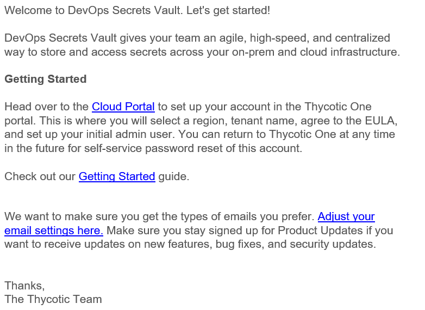
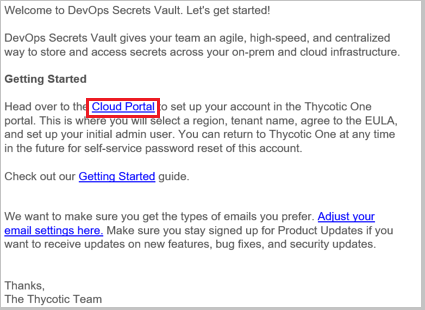
image cleanup and tenant steps to OL

Changed region(s): [[0.0, 0.0, 1.0, 1.0], [0.1835, 0.2903, 0.3976, 0.4065]]

diff --git a/product/QuickStart/obtaindsv/index.md b/product/QuickStart/obtaindsv/index.md
@@ -5,49 +5,44 @@
 # Sign Up with Thycotic for a Tenant
 
 Your **tenant** is your DevOps Secrets Vault cloud account and the rights to access it.
+To get your **tenant**:
 
-* To sign up, visit Thycotic's [DevOps Secrets Vault Home Page](https://thycotic.com/products/devops-secrets-vault-password-management/) and fill out and submit the **DevOps Secrets Vault Free** web form.
-* Signing up qualifies you for a free, feature-complete try-out version of DevOps Secrets Vault. You begin with the free version to get configured, and upgrade when you need more capacity than the free version's 250 Secrets and 2500 API calls per month.
-* An initial email from Thycotic Customer Support will arrive with the subject, "Welcome to the Thycotic Community!". There is a link to sign up for a Thycotic support account.  You can wait until you need support to sign up.  Also, if you already have a support account because of a previous Thycotic cloud subscription, then this can be ignored.
-* A second email, this time from Thycotic Sales, with the subject "DevOps Secrets Vault" will arrive.  
-* Click the hyperlink labeled "Cloud Portal" in the text of the email to click to get started.
+1. Visit Thycotic's [DevOps Secrets Vault Home Page](https://thycotic.com/products/devops-secrets-vault-password-management/).
+1. Fill out  the **DevOps Secrets Vault Free** web form and submit.
+    * Signing up qualifies you for a free, feature-complete trial version of DevOps Secrets Vault. The trial version is limited to **250 Secrets** and **2500 API calls** per month. Start by configuring the free version and upgrade when you need more capacity.
+1. After submitting the form, you receive an e-mail from Thycotic Customer Support with the subject, **"Welcome to the Thycotic Community!"**.
+    * There is a link to sign up for a Thycotic support account. You can wait until you need support to sign up. If you already have a support account because of a previous Thycotic cloud subscription, use your existing account for support.
+1. A second email, this time from Thycotic Sales, arrives with the subject **"DevOps Secrets Vault"**. 
+    ![DSV Get Started Email](./images/DSVCloudemail.png)
+    
+1. Click the hyperlink labeled **"Cloud Portal"** in the text of the email to click to get started.
+1. The link takes you to **Thycotic Cloud Manager** to select your **Product Environment**.  The three regions are independent for data sovereignty reasons (like GDPR). All three provide geographical redundancy. Select a product environment from the dropdown.
+    | Option   | Primary Region       | (Active standby)  | Base URL                |
+    | -------- | ---------------------| ------------------|---------------          |
+    |AU        | Sydney               | Singapore         | secretsvaultcloud.com.au    |
+    |EU        | Frankfurt            | Ireland           | secretsvaultcloud.eu    |
+    |US        | US-East              | US-West           | secretsvaultcloud.com   |
+    <br>
 
-![DSV Get Started Email](./images/DSVCloudemail.png)
+    ![Select Region](./images/DSVEnvironment.png)
 
-* You will visit Thycotic Cloud Manager to select your region.  The three regions are independent for data sovereignty reasons (like GDPR).  All three provide geographical redundancy.
+1. Next you are taken to **Thycotic One** to set a password.  
 
-| Option   | Primary Region       | (Active standby)  | Base URL                |
-| -------- | ---------------------| ------------------|---------------          |
-|AU        | Sydney               | Singapore         | secretsvaultcloud.com.au    |
-|EU        | Frankfurt            | Ireland           | secretsvaultcloud.eu    |
-|US        | US-East              | US-West           | secretsvaultcloud.com   |
+    ![Create Password](./images/DSVPassword.png)
 
-![](./images/spacer.png)
+    > **NOTE**: The person setting up the DevOps Secrets Vault tenant will be considered the *initial administrator* and Thycotic One will be established as that person's authentication provider.  This is to enable Thycotic to help in case the password is lost.  
 
-![Select Region](./images/DSVEnvironment.png)
+    * You can set future users as local or use Thycotic One, AWS, Azure or GCP.
+    * Thycotic One can be setup later to enable SSO to an identity provider of your choice using OIDC.
+    * Thycotic One can be setup later to enable 2FA when used as the identity provider. The options are TOTP (such as Google Authenticator) and SMS.
+1. Choose your tenant name.
 
-* Next you are taken to Thycotic One to set a password.  
+    ![Select Tenant](./images/DSVsettenant.png)
 
-* NOTE: The person setting up the DevOps Secrets Vault tenant will be considered the *initial administrator* and Thycotic One will be established as that person's authentication provider.  This is to enable Thycotic to help in case the password is lost.  
+1. Read and agree to the EULA and GDPR (if applicable)
 
-    * It is up to the customer to set any future users as local or through Thycotic One, AWS, Azure or GCP.
-    * Thycotic One can be setup later to enable SSO to an identity provider of the customer's choice using OIDC.
-    * Thycotic One can be setup later to enable 2FA when used as the identity provider. The options are TOTP (such as Google Authenticator) and SMS. 
+    ![EULA](./images/DSVLicense.png)
 
-![Create Password](./images/DSVPassword.png)
+1. The tenant will be created. DSV takes between 5-20 minutes to complete tenant creation.
 
-* Choose your tenant name.
-
-![Select Tenant](./images/DSVsettenant.png)
-
-* Read and agree to the EULA and GDPR (if applicable)
-
-![EULA](./images/DSVLicense.png)
-
-* The tenant will be created.  The note on the screen says it can take up to 20 minutes, but is usually closer to 5 minutes.
-
-The next step is downloading the [CLI executable](../obtaincli/index.md).
-
-![](./images/spacer.png)
-
-![](./images/spacer.png)
+**Once your tenant is created, the next step is downloading the [CLI executable](../obtaincli/index.md).**

diff --git a/product/index.md b/product/index.md
@@ -4,9 +4,12 @@
 
 # Overview
 
+## Product
 Thycotic's DevOps Secrets Vault is a high velocity vault that centralizes secrets management, enforces access, and provides automated logging trails.  This cloud-based solution is platform agnostic and designed to replace hard-coded credentials in applications, micro-services, DevOps tools, and robotic process automation. This vault ensures IT, DevOps and Security teams the speed and agility needed to stay competitive without sacrificing security.
 
 DevOps Secrets Vault is deployed as an API-as-a Service.  Organizations can sign-up and create their first secrets in minutes with no infrastructure to manage or maintain.
+
+## Key Features
 
 * Command line interface (CLI) for Windows, Mac, and Linux/Unix
 * RESTful Application programming interface (API)
